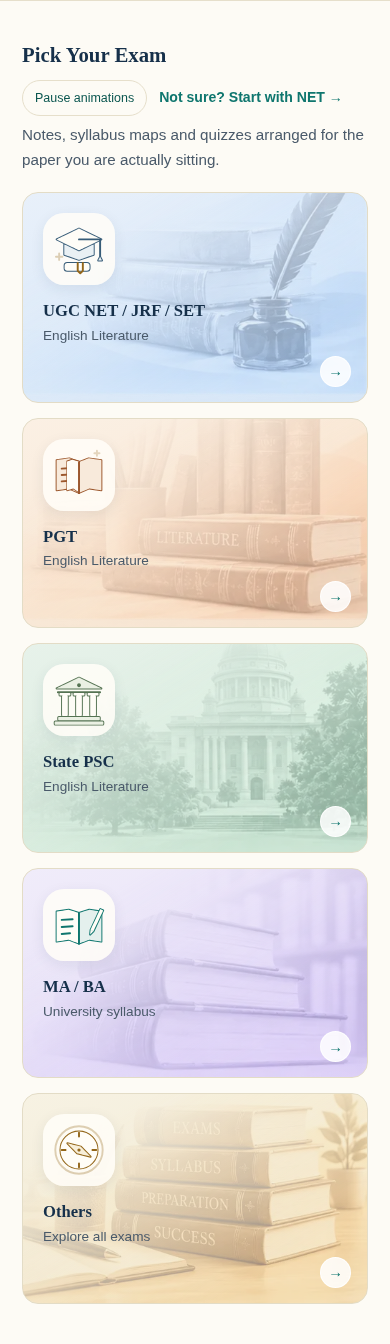
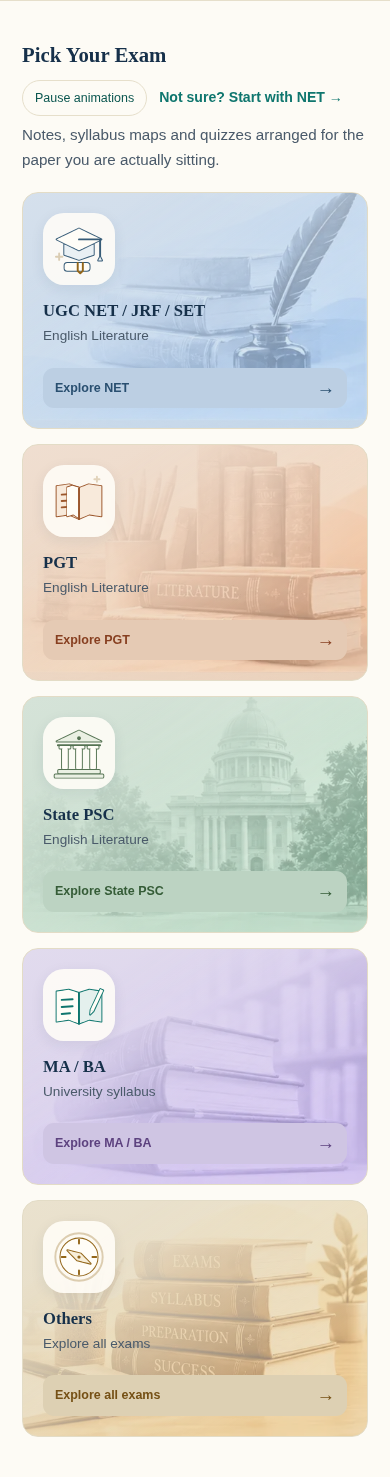
Deepen exam card colours and add full-width action buttons

diff --git a/assets/home.css b/assets/home.css
@@ -89,23 +89,26 @@
 #exams .sechead::after{display:none}
 .examgrid{display:grid;gap:15px;grid-template-columns:repeat(auto-fit,minmax(198px,1fr))}
 .examcard{
-  position:relative;display:block;border-radius:16px;padding:20px 20px 54px;
+  --exam-accent:var(--teal);
+  position:relative;display:flex;flex-direction:column;align-items:flex-start;border-radius:16px;padding:20px;
   border:1px solid var(--card-line);color:inherit;overflow:hidden;
   background:linear-gradient(160deg,var(--c1,#F4F1E6),var(--c2,#EAE6D6));
+  background:linear-gradient(160deg,color-mix(in srgb,var(--c1,#F4F1E6) 90%,var(--exam-accent)),color-mix(in srgb,var(--c2,#EAE6D6) 90%,var(--exam-accent)));
   transition:transform .22s cubic-bezier(.2,.7,.3,1),box-shadow .28s,border-color .22s;
 }
 /* Piche ki halki image: right-bottom se crop, opacity kam, left par fade taaki text saaf padhe. */
 .examcard::before{
   content:"";position:absolute;inset:0;pointer-events:none;
-  background:var(--img) right bottom/cover no-repeat;opacity:.42;
+  background:var(--img) right bottom/cover no-repeat;opacity:.46;
   -webkit-mask-image:linear-gradient(to top left,#000 22%,transparent 82%);
   mask-image:linear-gradient(to top left,#000 22%,transparent 82%);
   transition:opacity .28s,transform .5s;
 }
-.examcard:hover::before{opacity:.7;transform:scale(1.05)}
+.examcard::after{content:"";position:absolute;inset:0;pointer-events:none;background:var(--exam-accent);opacity:0;transition:opacity .28s}
 .examcard>*{position:relative;z-index:1}
-.examcard:hover{transform:translateY(-5px);border-color:var(--teal);
-  box-shadow:var(--glow),0 20px 38px -12px rgba(22,48,74,.32)}
+.examcard:focus-visible{outline-color:var(--exam-accent);border-radius:16px}
+.examcard:focus-visible::after{opacity:.1}
+.examcard:active{transform:translateY(-1px) scale(.99)}
 .examcard .ic{
   position:relative;width:72px;height:72px;border-radius:21px;display:flex;align-items:center;justify-content:center;
   background:rgba(255,253,247,.88);margin-bottom:16px;box-shadow:0 4px 14px rgba(22,48,74,.08);
@@ -116,16 +119,21 @@
 .examcard .quiz-animation svg{width:100%;height:100%}
 .examcard .ic.is-animated > img{visibility:hidden}
 .examcard .ic.is-animated .quiz-animation{opacity:1}
-.examcard:hover .ic{transform:scale(1.07) rotate(-3deg)}
 .examcard h3{font-size:1.04rem;margin-bottom:3px;line-height:1.25}
-.examcard p{font-size:.85rem;margin:0;color:var(--body)}
-.examcard .arrow{
-  position:absolute;right:16px;bottom:15px;width:31px;height:31px;border-radius:50%;
-  background:rgba(255,255,255,.85);border:1px solid rgba(255,255,255,.9);
-  display:flex;align-items:center;justify-content:center;
-  color:var(--teal);font-weight:700;font-size:.92rem;transition:background .22s,color .22s,transform .22s;
+.examcard p{font-size:.85rem;margin:0 0 20px;color:var(--body)}
+.exam-cta{display:flex;align-items:center;justify-content:space-between;gap:8px;width:100%;margin-top:auto;
+  padding:10px 12px;border-radius:11px;background:var(--c2);background:color-mix(in srgb,var(--c2) 85%,var(--exam-accent));
+  color:var(--exam-accent);font-size:.78rem;font-weight:700;transition:background .25s,color .25s,box-shadow .25s}
+.examcard .arrow{font-size:1.15rem;line-height:1;transition:transform .25s}
+.examcard:focus-visible .exam-cta{background:var(--exam-accent);color:#fff}
+@media(hover:hover){
+  .examcard:hover{transform:translateY(-5px);border-color:var(--exam-accent);box-shadow:0 16px 30px -12px rgba(22,48,74,.28)}
+  .examcard:hover::before{opacity:.62;transform:scale(1.05)}
+  .examcard:hover::after{opacity:.1}
+  .examcard:hover .ic{transform:scale(1.07) rotate(-3deg)}
+  .examcard:hover .exam-cta{background:var(--exam-accent);color:#fff;box-shadow:0 4px 12px rgba(22,48,74,.12)}
+  .examcard:hover .arrow{transform:translateX(3px)}
 }
-.examcard:hover .arrow{background:var(--teal);color:#fff;transform:translateX(3px)}
 
 /* ---------- Quizzes ---------- */
 .quizzone{position:relative;overflow:hidden;background:linear-gradient(135deg,var(--cream),var(--bg) 65%,var(--teal-soft));border-top:1px solid var(--border);border-bottom:1px solid var(--border)}
@@ -187,7 +195,7 @@
 }
 @media(prefers-reduced-motion:reduce){
   .quizzone .quizcard,.quizzone .quizcard *,.quizzone .quizcard::after{transition:none!important;animation:none!important;transform:none!important}
-  #exams .examcard,#exams .examcard *,#exams .examcard::before{transition:none!important;animation:none!important;transform:none!important}
+  #exams .examcard,#exams .examcard *,#exams .examcard::before,#exams .examcard::after{transition:none!important;animation:none!important;transform:none!important}
 }
 
 /* ---------- Ages ---------- */

diff --git a/index.html b/index.html
@@ -196,49 +196,49 @@
     <p class="seclede">Notes, syllabus maps and quizzes arranged for the paper you are actually sitting.</p>
 
     <div class="examgrid">
-      <a class="examcard" href="/exams/net/" style="--img:url(/assets/exams/net.webp);--c1:#E8F0FA;--c2:#D6E6F7">
+      <a class="examcard" href="/exams/net/" style="--img:url(/assets/exams/net.webp);--c1:#E8F0FA;--c2:#D6E6F7;--exam-accent:#294F70">
         <span class="ic" data-exam-animation="net" aria-hidden="true">
           <img src="/assets/animations/exam-net.svg" alt="" width="64" height="64">
         </span>
         <h3>UGC NET / JRF / SET</h3>
         <p>English Literature</p>
-        <span class="arrow" aria-hidden="true">&rarr;</span>
+        <span class="exam-cta">Explore NET <span class="arrow" aria-hidden="true">&rarr;</span></span>
       </a>
 
-      <a class="examcard" href="/exams/pgt/" style="--img:url(/assets/exams/pgt.webp);--c1:#FBF0E4;--c2:#F6E3CE">
+      <a class="examcard" href="/exams/pgt/" style="--img:url(/assets/exams/pgt.webp);--c1:#FBF0E4;--c2:#F6E3CE;--exam-accent:#873F20">
         <span class="ic" data-exam-animation="pgt" aria-hidden="true">
           <img src="/assets/animations/exam-pgt.svg" alt="" width="64" height="64">
         </span>
         <h3>PGT</h3>
         <p>English Literature</p>
-        <span class="arrow" aria-hidden="true">&rarr;</span>
+        <span class="exam-cta">Explore PGT <span class="arrow" aria-hidden="true">&rarr;</span></span>
       </a>
 
-      <a class="examcard" href="/exams/state-psc/" style="--img:url(/assets/exams/state-psc.webp);--c1:#E7F2EA;--c2:#D4E8DA">
+      <a class="examcard" href="/exams/state-psc/" style="--img:url(/assets/exams/state-psc.webp);--c1:#E7F2EA;--c2:#D4E8DA;--exam-accent:#355C37">
         <span class="ic" data-exam-animation="psc" aria-hidden="true">
           <img src="/assets/animations/exam-psc.svg" alt="" width="64" height="64">
         </span>
         <h3>State PSC</h3>
         <p>English Literature</p>
-        <span class="arrow" aria-hidden="true">&rarr;</span>
+        <span class="exam-cta">Explore State PSC <span class="arrow" aria-hidden="true">&rarr;</span></span>
       </a>
 
-      <a class="examcard" href="/exams/ma-ba/" style="--img:url(/assets/exams/ma-ba.webp);--c1:#F0ECFA;--c2:#E3DCF5">
+      <a class="examcard" href="/exams/ma-ba/" style="--img:url(/assets/exams/ma-ba.webp);--c1:#F0ECFA;--c2:#E3DCF5;--exam-accent:#5D427F">
         <span class="ic" data-exam-animation="university" aria-hidden="true">
           <img src="/assets/animations/exam-university.svg" alt="" width="64" height="64">
         </span>
         <h3>MA / BA</h3>
         <p>University syllabus</p>
-        <span class="arrow" aria-hidden="true">&rarr;</span>
+        <span class="exam-cta">Explore MA / BA <span class="arrow" aria-hidden="true">&rarr;</span></span>
       </a>
 
-      <a class="examcard" href="/exams/" style="--img:url(/assets/exams/others.webp);--c1:#F7F2E3;--c2:#EFE7CF">
+      <a class="examcard" href="/exams/" style="--img:url(/assets/exams/others.webp);--c1:#F7F2E3;--c2:#EFE7CF;--exam-accent:#755015">
         <span class="ic" data-exam-animation="others" aria-hidden="true">
           <img src="/assets/animations/exam-others.svg" alt="" width="64" height="64">
         </span>
         <h3>Others</h3>
         <p>Explore all exams</p>
-        <span class="arrow" aria-hidden="true">&rarr;</span>
+        <span class="exam-cta">Explore all exams <span class="arrow" aria-hidden="true">&rarr;</span></span>
       </a>
     </div>
   </div>

diff --git a/docs/exam-icons/README.md b/docs/exam-icons/README.md
@@ -8,7 +8,7 @@ The five original homepage exam icons replace the old SVG artwork. Each has a ma
 - MA / BA: a study book with lines writing in sequence and a moving pencil.
 - Others: a compass needle making a full 360-degree turn.
 
-The existing exam-card backgrounds, titles and destinations are retained. Icon surfaces use warm ivory, with muted blue, rust, sage, teal and gold linework.
+The existing exam-card artwork, titles and destinations are retained. Each pastel background now mixes in 10% of its own deeper accent, with slightly stronger artwork opacity. Full-width action labels replace the small circular arrows; their surfaces match the blue, peach, green, lilac and gold card palettes. Hover adds a further 10% accent overlay and fills the action label with that card's accent. Keyboard focus receives the same filled action treatment. Icon surfaces use warm ivory, with muted blue, rust, sage, teal and gold linework.
 
 `assets/quiz-motion.js` now manages both homepage sections with one shared Lottie player download. Each section has its own pause/play control and viewport observer. Entering an icon or its card replays that icon; keyboard focus does the same. Reduced motion and a hidden tab pause animation. On an initial reduced-motion visit, neither the player nor the animation JSON is downloaded. The new static artwork remains available when animation assets or JavaScript fail.
 
@@ -17,3 +17,5 @@ The existing exam-card backgrounds, titles and destinations are retained. Icon s
 The Eleventy build passes. Local Chromium checks verify five visibly changing icons, a single player for all nine homepage animations, hover replay, independent section pause/play, keyboard focus, original destinations, no card overflow at 390/768/1024/1440 pixels, offscreen pausing, reduced motion, a failed animation JSON, and JavaScript-disabled fallback. The existing quiz rotation and ordered-tick behavior also passes regression checks. The internal-link check found no missing links.
 
 The screenshots show the local build with external web fonts mocked, so text uses fallback fonts.
+
+The colour/button refinement also passes local Chromium checks for five full-width action labels, distinct colour-matched hover fills, darker card overlays, four responsive widths without content overflow, and normal button-text contrast ratios of at least 4.5:1. `hover.png` shows an active card.
